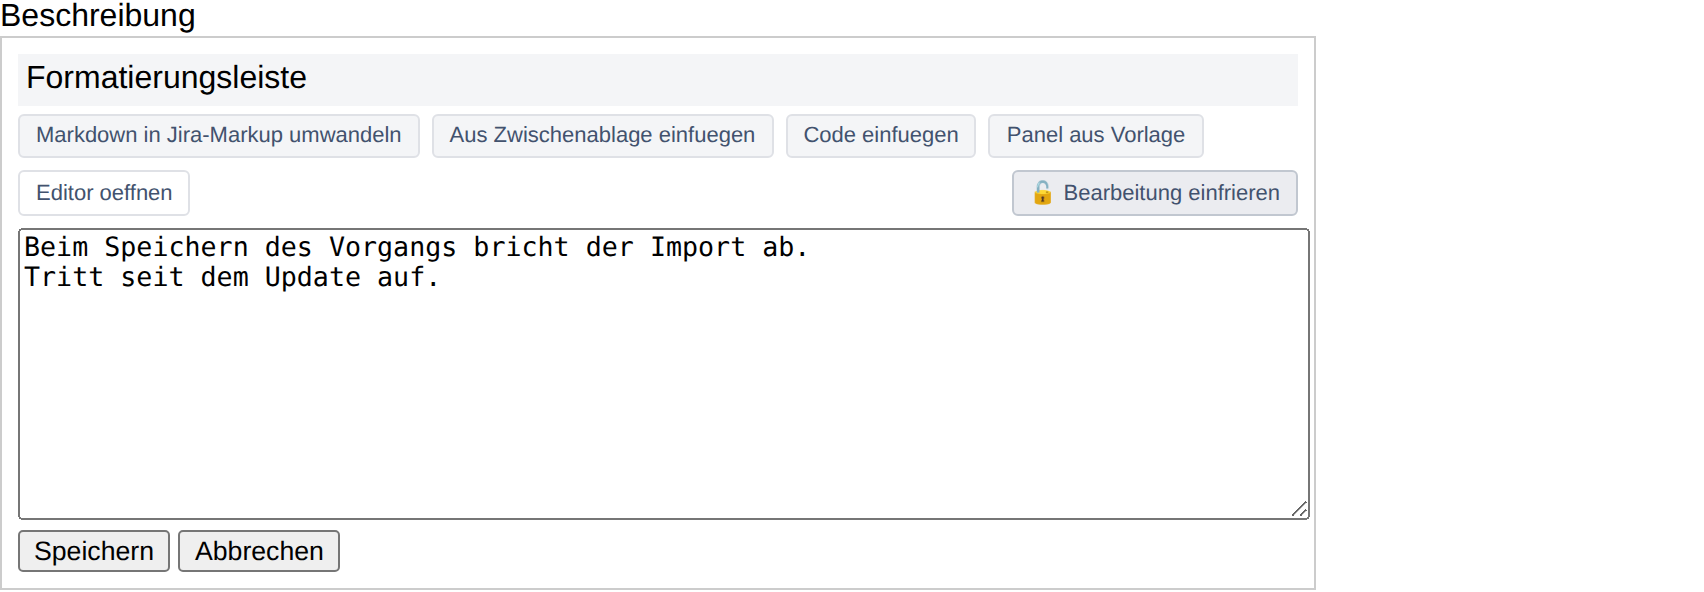
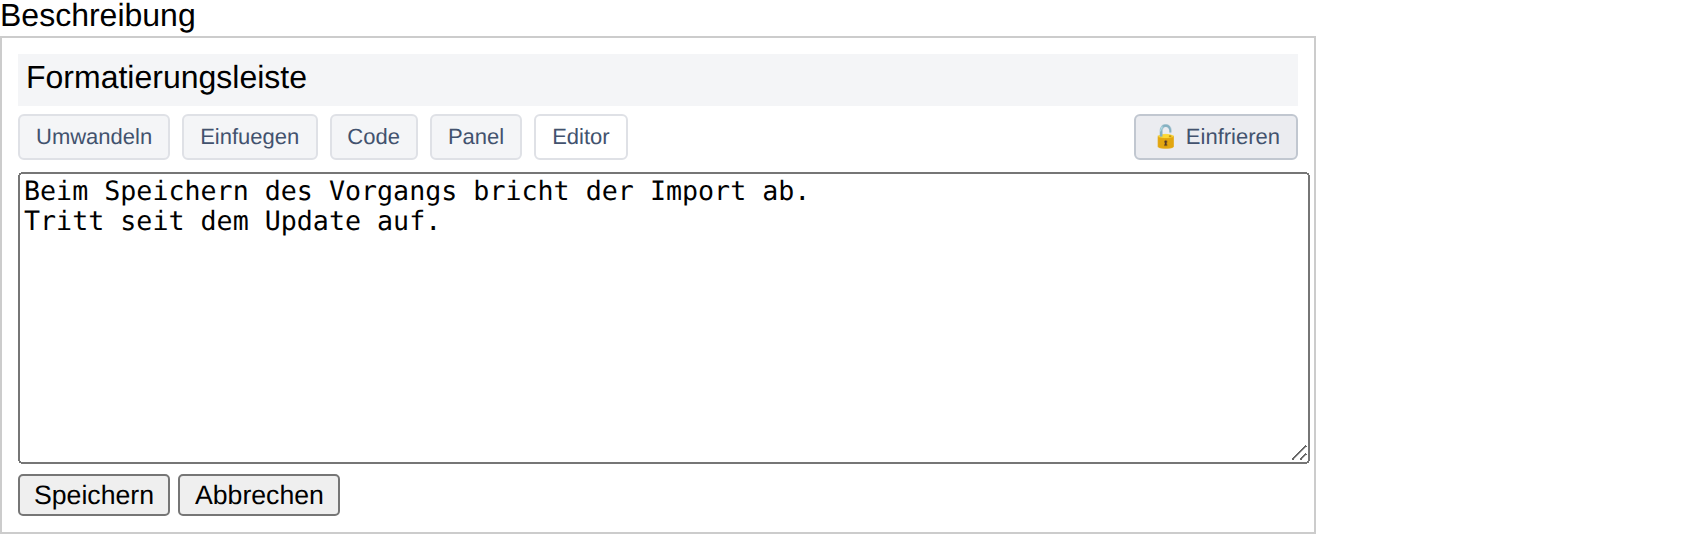
Kurze Beschriftungen an der Buttonleiste, Fixieren klarer benannt
Die Leiste am Feld brach mit "Markdown in Jira-Markup umwandeln" und
"Aus Zwischenablage einfuegen" in zwei Zeilen um. Jetzt heissen die Knoepfe
Umwandeln, Einfuegen, Code, Panel, Editor und Eingefroren/Einfrieren - was
einer genau tut, steht in seinem Tooltip, der dafuer ausfuehrlicher wurde.

Dazu benennen README und Einstellungsseite das Verhalten so, wie es sich
bedient: das Hauptfeld eines Vorgangs wechselt in Jira per Klick zwischen
Ansicht und Bearbeitung und schliesst beim Klick daneben wieder - mit der
Erweiterung ist es stattdessen im Bearbeitungsmodus fixiert, sobald dieser
aufgeht. Der Schalter heisst darum "Bearbeitetes Feld automatisch offen
halten" und sagt jetzt auch, dass das Fixieren ohne ihn ganz wegfaellt.

Die Bilder zur Buttonleiste und zum Abschnitt "Verhalten" sind neu
aufgenommen; das Einstellungsbild zeigt den Schalter zum Fixieren, das
bisher noch fehlte.

Claude-Session: https://claude.ai/code/session_018gyMpTNDiWV3DkRtNFAydh

diff --git a/jira-markdown-converter/test/integration.test.js b/jira-markdown-converter/test/integration.test.js
@@ -369,7 +369,7 @@ async function run() {
   await test('Buttonleiste wandelt den Feldinhalt um', async function () {
     var page = await newPage(browser);
     await page.fill('#description', '# Titel\n\n**fett**');
-    await page.locator('.jmd-fieldbar').first().getByText('Markdown in Jira-Markup umwandeln').click();
+    await page.locator('.jmd-fieldbar').first().getByText('Umwandeln').click();
     assert.strictEqual(await page.inputValue('#description'), 'h1. Titel\n\n*fett*');
     await page.close();
   });
@@ -740,7 +740,7 @@ async function run() {
   });
 
   console.log('\nCode einfuegen');
-  var CODE_BUTTON = '.jmd-fieldbar__btn:has-text("Code einfuegen")';
+  var CODE_BUTTON = '.jmd-fieldbar__btn:text-is("Code")';
 
   await test('Knopf an der Feldleiste oeffnet den Dialog', async function () {
     var page = await newPage(browser, null, SERVER);
@@ -1032,7 +1032,7 @@ async function run() {
   await test('Buttonleiste bietet vier Vorlagen an', async function () {
     var page = await newPage(browser, null, SERVER);
     await page.waitForSelector('.jmd-fieldbar');
-    await page.locator('.jmd-fieldbar').first().getByText('Panel aus Vorlage').click();
+    await page.locator('.jmd-fieldbar').first().getByText('Panel').click();
     await page.waitForSelector('.jmd-panelmenu');
     var labels = await page.evaluate(function () {
       return Array.prototype.map.call(document.querySelectorAll('.jmd-panelmenu__item'), function (item) {
@@ -1046,7 +1046,7 @@ async function run() {
   await test('jede Vorlage zeigt ihre Farbe', async function () {
     var page = await newPage(browser, null, SERVER);
     await page.waitForSelector('.jmd-fieldbar');
-    await page.locator('.jmd-fieldbar').first().getByText('Panel aus Vorlage').click();
+    await page.locator('.jmd-fieldbar').first().getByText('Panel').click();
     await page.waitForSelector('.jmd-panelmenu');
     var colors = await page.evaluate(function () {
       return Array.prototype.map.call(document.querySelectorAll('.jmd-panelmenu__item'), function (item) {
@@ -1067,7 +1067,7 @@ async function run() {
   await test('Textfeld bekommt {panel} mit Farben', async function () {
     var page = await newPage(browser, null, SERVER);
     await page.waitForSelector('.jmd-fieldbar');
-    await page.locator('.jmd-fieldbar').first().getByText('Panel aus Vorlage').click();
+    await page.locator('.jmd-fieldbar').first().getByText('Panel').click();
     await page.click('.jmd-panelmenu__item[data-template="warning"]');
     assert.strictEqual(await page.inputValue('#description'),
       '{panel:title=Warnung|borderColor=#de350b|bgColor=#ffebe6}\n' +
@@ -1078,7 +1078,7 @@ async function run() {
   await test('Cursor steht anschliessend im Textbereich des Panels', async function () {
     var page = await newPage(browser, null, SERVER);
     await page.waitForSelector('.jmd-fieldbar');
-    await page.locator('.jmd-fieldbar').first().getByText('Panel aus Vorlage').click();
+    await page.locator('.jmd-fieldbar').first().getByText('Panel').click();
     await page.click('.jmd-panelmenu__item[data-template="info"]');
     var selected = await page.evaluate(function () {
       var element = document.querySelector('#description');
@@ -1101,7 +1101,7 @@ async function run() {
       element.setSelectionRange(5, 5);
       document.dispatchEvent(new Event('selectionchange'));
     });
-    await page.locator('.jmd-fieldbar').first().getByText('Panel aus Vorlage').click();
+    await page.locator('.jmd-fieldbar').first().getByText('Panel').click();
     await page.click('.jmd-panelmenu__item[data-template="plain"]');
     assert.strictEqual(await page.inputValue('#description'),
       'oben\n{panel:title=Titel|borderColor=#dfe1e6|bgColor=#f4f5f7}\n' +
@@ -1112,7 +1112,7 @@ async function run() {
   await test('Menue schliesst mit Escape und beim Klick daneben', async function () {
     var page = await newPage(browser, null, SERVER);
     await page.waitForSelector('.jmd-fieldbar');
-    var button = page.locator('.jmd-fieldbar').first().getByText('Panel aus Vorlage');
+    var button = page.locator('.jmd-fieldbar').first().getByText('Panel');
     await button.click();
     await page.waitForSelector('.jmd-panelmenu');
     await page.keyboard.press('Escape');
@@ -1143,7 +1143,7 @@ async function run() {
   await test('Rich-Text-Editor bekommt HTML mit denselben Farben', async function () {
     var page = await newPage(browser, null, RTE);
     await page.waitForSelector('.jmd-fieldbar');
-    await page.locator('.jmd-fieldbar').first().getByText('Panel aus Vorlage').click();
+    await page.locator('.jmd-fieldbar').first().getByText('Panel').click();
     await page.click('.jmd-panelmenu__item[data-template="info"]');
     var pastes = await page.evaluate(function () { return window.__pastes; });
     assert.strictEqual(pastes.length, 1, 'kein Einfuegen im Editor angekommen');
@@ -1161,7 +1161,7 @@ async function run() {
   await test('im Rich-Text-Editor steht der Cursor im Panel-Text', async function () {
     var page = await newPage(browser, null, RTE);
     await page.waitForSelector('.jmd-fieldbar');
-    await page.locator('.jmd-fieldbar').first().getByText('Panel aus Vorlage').click();
+    await page.locator('.jmd-fieldbar').first().getByText('Panel').click();
     await page.click('.jmd-panelmenu__item[data-template="warning"]');
     await page.waitForFunction(function () {
       var doc = document.querySelector('#description_ifr').contentDocument;
@@ -1174,7 +1174,7 @@ async function run() {
   await test('mit "vorher umschalten" kommt Markup statt HTML', async function () {
     var page = await newPage(browser, { switchToMarkup: true }, RTE);
     await page.waitForSelector('.jmd-fieldbar');
-    await page.locator('.jmd-fieldbar').first().getByText('Panel aus Vorlage').click();
+    await page.locator('.jmd-fieldbar').first().getByText('Panel').click();
     await page.click('.jmd-panelmenu__item[data-template="info"]');
     await page.waitForFunction(function () {
       return document.querySelector('#description').value.indexOf('{panel:title=Info') !== -1;
@@ -1225,7 +1225,7 @@ async function run() {
     var page = await newPage(browser, null, SERVER);
     await page.fill('#description', 'Achtung:');
     await setCaret(page, 8);
-    await page.locator('.jmd-fieldbar').first().getByText('Panel aus Vorlage').click();
+    await page.locator('.jmd-fieldbar').first().getByText('Panel').click();
     await page.click('.jmd-panelmenu__item[data-template="warning"]');
     assert.strictEqual(await page.inputValue('#description'),
       'Achtung:\n{panel:title=Warnung|borderColor=#de350b|bgColor=#ffebe6}\n' +
@@ -1237,7 +1237,7 @@ async function run() {
     var page = await newPage(browser, null, SERVER);
     await page.fill('#description', 'Achtung:');
     await setCaret(page, 8);
-    await page.locator('.jmd-fieldbar').first().getByText('Panel aus Vorlage').click();
+    await page.locator('.jmd-fieldbar').first().getByText('Panel').click();
     await page.click('.jmd-panelmenu__item[data-template="info"]');
     var selected = await page.evaluate(function () {
       var element = document.querySelector('#description');
@@ -1300,7 +1300,7 @@ async function run() {
   await test('auch die Panel-Vorlage bekommt im Editor einen eigenen Block', async function () {
     var page = await newPage(browser, null, RTE);
     await setRichCaret(page, '<p id="a">davor danach</p>', 'a', 6);
-    await page.locator('.jmd-fieldbar').first().getByText('Panel aus Vorlage').click();
+    await page.locator('.jmd-fieldbar').first().getByText('Panel').click();
     await page.click('.jmd-panelmenu__item[data-template="warning"]');
     await page.waitForFunction(function () {
       return window.__pastes.length === 1;
@@ -1381,7 +1381,7 @@ async function run() {
     });
     assert.strictEqual(view.hidden, false);
     assert.strictEqual(view.pressed, 'true');
-    assert.ok(/eingefroren/.test(view.text), 'Beschriftung: ' + view.text);
+    assert.ok(/Eingefroren/.test(view.text), 'Beschriftung: ' + view.text);
     await page.close();
   });
 
@@ -1394,7 +1394,7 @@ async function run() {
       return { pressed: button.getAttribute('aria-pressed'), text: button.textContent };
     });
     assert.strictEqual(view.pressed, 'false');
-    assert.ok(/einfrieren/.test(view.text), 'Beschriftung: ' + view.text);
+    assert.ok(/Einfrieren/.test(view.text), 'Beschriftung: ' + view.text);
     await clickBeside(page);
     assert.strictEqual(await editing(page), false, 'Jira haette schliessen duerfen');
     await page.close();
@@ -1610,7 +1610,7 @@ async function run() {
     // Bedienbar bleibt es trotzdem: der Klick geht durch, alles andere nicht.
     var page = await newPage(browser, null, ISSUE);
     await openDescription(page);
-    await page.locator('.jmd-fieldbar').first().getByText('Editor oeffnen').click();
+    await page.locator('.jmd-fieldbar').first().getByText('Editor').click();
     await page.click('.jmd-panel textarea');
     await page.fill('#jmd-input', '# Titel');
     await page.click('.jmd-panel [data-action="insert"]');

diff --git a/jira-markdown-converter/src/content.js b/jira-markdown-converter/src/content.js
@@ -899,8 +899,8 @@
     var convertButton = document.createElement('button');
     convertButton.type = 'button';
     convertButton.className = 'jmd-fieldbar__btn';
-    convertButton.textContent = 'Markdown in Jira-Markup umwandeln';
-    convertButton.title = 'Inhalt bzw. Auswahl dieses Feldes umwandeln';
+    convertButton.textContent = 'Umwandeln';
+    convertButton.title = 'Markdown in diesem Feld - oder die Auswahl darin - in Jira-Markup umwandeln';
     convertButton.addEventListener('click', function (event) {
       event.preventDefault();
       target = field;
@@ -910,8 +910,8 @@
     var pasteButton = document.createElement('button');
     pasteButton.type = 'button';
     pasteButton.className = 'jmd-fieldbar__btn';
-    pasteButton.textContent = 'Aus Zwischenablage einfuegen';
-    pasteButton.title = 'Markdown aus der Zwischenablage konvertiert einfuegen';
+    pasteButton.textContent = 'Einfuegen';
+    pasteButton.title = 'Markdown aus der Zwischenablage umgewandelt an der Cursorposition einfuegen';
     pasteButton.addEventListener('click', function (event) {
       event.preventDefault();
       target = field;
@@ -929,8 +929,8 @@
     var codeButton = document.createElement('button');
     codeButton.type = 'button';
     codeButton.className = 'jmd-fieldbar__btn';
-    codeButton.textContent = 'Code einfuegen';
-    codeButton.title = 'Codeblock mit Sprachauswahl einfuegen';
+    codeButton.textContent = 'Code';
+    codeButton.title = 'Codeblock mit Sprachauswahl an der Cursorposition einfuegen';
     codeButton.addEventListener('click', function (event) {
       event.preventDefault();
       openCodeDialog(field);
@@ -939,8 +939,8 @@
     var templateButton = document.createElement('button');
     templateButton.type = 'button';
     templateButton.className = 'jmd-fieldbar__btn';
-    templateButton.textContent = 'Panel aus Vorlage';
-    templateButton.title = 'Panel mit Titel und Platzhaltertext an der Cursorposition einfuegen';
+    templateButton.textContent = 'Panel';
+    templateButton.title = 'Farbiges Panel aus einer Vorlage an der Cursorposition einfuegen';
     templateButton.setAttribute('aria-haspopup', 'true');
     templateButton.setAttribute('aria-expanded', 'false');
     templateButton.addEventListener('click', function (event) {
@@ -952,8 +952,8 @@
     var panelButton = document.createElement('button');
     panelButton.type = 'button';
     panelButton.className = 'jmd-fieldbar__btn jmd-fieldbar__btn--ghost';
-    panelButton.textContent = 'Editor oeffnen';
-    panelButton.title = 'Markdown eingeben und Vorschau ansehen';
+    panelButton.textContent = 'Editor';
+    panelButton.title = 'Editor mit Vorschau oeffnen: Markdown eingeben und das Jira-Markup sehen';
     panelButton.addEventListener('click', function (event) {
       event.preventDefault();
       target = field;

diff --git a/jira-markdown-converter/options/options.html b/jira-markdown-converter/options/options.html
@@ -52,14 +52,16 @@
       <label class="check">
         <input type="checkbox" id="freezeEditMode">
         <span>
-          Bearbeitetes Feld offen halten
+          Bearbeitetes Feld automatisch offen halten
           <small>
             Jira schliesst ein Feld, sobald man daneben klickt - Aenderungen
             sind dann weg oder landen ungewollt im Entwurf. Mit dieser
-            Einstellung friert der Bearbeitungsmodus stattdessen ein
-            (Schloss in der Buttonleiste am Feld), und vor dem Verlassen der
-            Seite wird gefragt. Das Schloss laesst sich jederzeit oeffnen -
-            dann gilt wieder Jiras eigenes Verhalten.
+            Einstellung ist das Feld stattdessen im Bearbeitungsmodus
+            fixiert, sobald dieser aufgeht (Schloss in der Buttonleiste am
+            Feld), und vor dem Verlassen der Seite wird gefragt. Das Schloss
+            laesst sich jederzeit oeffnen - dann gilt fuer dieses Feld wieder
+            Jiras eigenes Verhalten. Ohne diese Einstellung faellt das
+            Fixieren ganz weg.
           </small>
         </span>
       </label>

diff --git a/jira-markdown-converter/src/editlock.js b/jira-markdown-converter/src/editlock.js
@@ -60,8 +60,8 @@
     '[data-testid*="rich-text"]'
   ].join(',');
 
-  var LOCKED = { glyph: '🔒', text: 'Bearbeitung eingefroren' };
-  var OPEN = { glyph: '🔓', text: 'Bearbeitung einfrieren' };
+  var LOCKED = { glyph: '🔒', text: 'Eingefroren' };
+  var OPEN = { glyph: '🔓', text: 'Einfrieren' };
 
   var enabled = false;
   var listening = false;
@@ -371,8 +371,9 @@
     button.textContent = state.glyph + ' ' + state.text;
     button.setAttribute('aria-pressed', locked ? 'true' : 'false');
     button.title = locked
-      ? 'Schloss oeffnen: Jira darf das Feld beim Klick daneben wieder schliessen'
-      : 'Feld einfrieren: es bleibt beim Klick daneben offen';
+      ? 'Bearbeitung eingefroren: das Feld bleibt offen, bis gespeichert oder abgebrochen wird. '
+        + 'Schloss oeffnen - dann darf Jira es beim Klick daneben wieder schliessen'
+      : 'Bearbeitung einfrieren: das Feld bleibt beim Klick daneben offen';
     button.classList.toggle('jmd-fieldbar__btn--locked', locked);
     button.hidden = !enabled;
   }

diff --git a/jira-markdown-converter/README.md b/jira-markdown-converter/README.md
@@ -12,16 +12,20 @@ Auf Jira-Seiten kommen fuenf Bedienelemente dazu:
 
 1. **Buttonleiste direkt am Feld** – ueber jedem Beschreibungs- und
    Kommentarfeld:
-   * *Markdown in Jira-Markup umwandeln* – wandelt den Feldinhalt (oder die
-     Auswahl darin) an Ort und Stelle um.
-   * *Aus Zwischenablage einfuegen* – holt das Markdown aus der Zwischenablage,
-     konvertiert es und fuegt es an der Cursorposition ein.
-   * *Code einfuegen* – oeffnet den Dialog fuer einen Codeblock.
-   * *Panel aus Vorlage* – stellt vier farbige Panels zur Auswahl und fuegt
-     das gewaehlte an der Cursorposition ein.
-   * *Editor oeffnen* – oeffnet das Eingabefeld mit Vorschau.
-   * *Schloss* – haelt das bearbeitete Feld offen, statt es von Jira beim
-     Klick daneben schliessen zu lassen.
+   * *Umwandeln* – wandelt den Feldinhalt (oder die Auswahl darin) an Ort und
+     Stelle um.
+   * *Einfuegen* – holt das Markdown aus der Zwischenablage, konvertiert es
+     und fuegt es an der Cursorposition ein.
+   * *Code* – oeffnet den Dialog fuer einen Codeblock.
+   * *Panel* – stellt vier farbige Panels zur Auswahl und fuegt das gewaehlte
+     an der Cursorposition ein.
+   * *Editor* – oeffnet das Eingabefeld mit Vorschau.
+   * *Schloss* – zeigt an, dass das Feld im Bearbeitungsmodus festgehalten
+     wird, und gibt es auf Klick wieder frei. Das Festhalten passiert von
+     selbst, laesst sich in den Einstellungen aber abschalten.
+
+   Die Beschriftungen sind kurz gehalten, damit die Leiste in eine Zeile
+   passt; was ein Button genau tut, steht in seinem Tooltip.
 2. **Eingabefeld mit Vorschau** (schwebender `MD`-Button unten rechts) –
    links Markdown einfuegen, rechts das fertige Jira-Markup sehen, dann
    *Ins Ticket einfuegen*, *Feld ersetzen*, *Markup kopieren* oder
@@ -153,15 +157,19 @@ auseinanderlaufen.
 
 ## Bearbeitung einfrieren
 
-Jira beendet das Inline-Bearbeiten, sobald man neben das Feld klickt. Was im
-Feld stand, ist danach entweder weg oder liegt ungewollt als Entwurf am
-Vorgang. Deshalb friert die Erweiterung den Bearbeitungsmodus ein, sobald man
-in einem Beschreibungs-, Kommentar- oder Umgebungsfeld zu arbeiten beginnt:
-das Schloss in der Buttonleiste ist zu, und das Feld bleibt offen.
+Das Hauptfeld eines Vorgangs – die Beschreibung – wechselt in Jira per Klick
+zwischen Ansicht und Bearbeitung, und ein Klick daneben beendet die
+Bearbeitung genauso schnell wieder. Was im Feld stand, ist danach entweder weg
+oder liegt ungewollt als Entwurf am Vorgang.
+
+Mit der Erweiterung ist das Feld darum automatisch im Bearbeitungsmodus
+fixiert, sobald dieser aufgeht: das Schloss in der Buttonleiste ist von
+Anfang an zu, und das Feld bleibt offen, bis gespeichert oder abgebrochen
+wird. Fuer Kommentar- und Umgebungsfelder gilt dasselbe.
 
 | Schloss zu (eingefroren) | Schloss offen (Jira wie gewohnt) |
 | --- | --- |
-| ![Buttonleiste mit geschlossenem Schloss und der Beschriftung "Bearbeitung eingefroren"](docs/images/schloss-zu.png) | ![Dieselbe Leiste mit geoeffnetem Schloss und der Beschriftung "Bearbeitung einfrieren"](docs/images/schloss-auf.png) |
+| ![Buttonleiste mit geschlossenem Schloss und der Beschriftung "Eingefroren"](docs/images/schloss-zu.png) | ![Dieselbe Leiste mit geoeffnetem Schloss und der Beschriftung "Einfrieren"](docs/images/schloss-auf.png) |
 
 Solange das Schloss zu ist:
 
@@ -188,9 +196,10 @@ Ein Klick auf das Schloss oeffnet es: dann gilt wieder Jiras eigenes
 Verhalten, und dieses Feld friert auch nicht von selbst wieder ein. Beim
 naechsten Bearbeiten faengt alles von vorn an.
 
-Abschalten laesst sich das Ganze in den Einstellungen unter *Verhalten*
-(*Bearbeitetes Feld offen halten*); dann verschwindet auch das Schloss aus
-der Buttonleiste.
+Wer das Fixieren gar nicht will, schaltet den Automatismus in den
+Einstellungen unter *Verhalten* ab (*Bearbeitetes Feld automatisch offen
+halten*): dann bleibt es ueberall bei Jiras eigenem Verhalten, und das
+Schloss verschwindet aus der Buttonleiste.
 
 ## Automatik ein- und ausschalten
 
@@ -370,7 +379,7 @@ Erreichbar ueber das Popup („Einstellungen") oder
 
 * Automatik beim Einfuegen an/aus (derselbe Schalter wie im Popup)
 * Schwebenden Button und Bestaetigungen an/aus
-* Bearbeitetes Feld offen halten (das Schloss an der Buttonleiste)
+* Bearbeitetes Feld automatisch offen halten (das Schloss an der Buttonleiste)
 * Verhalten im Rich-Text-Editor: formatiert einfuegen, Jira-Markup als Text
   einfuegen oder Markdown durchreichen; dazu das Umschalten auf den
   Markup-Modus
